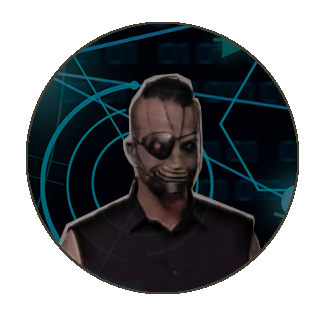
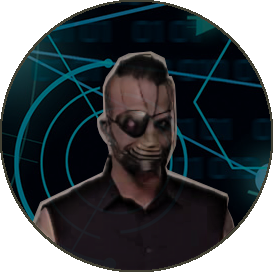
me image

diff --git a/static-pages/css/media.css b/static-pages/css/media.css
@@ -14,6 +14,14 @@
     font-size: 0.767em;
   }
 
+  .me {
+    margin: 0px 0px 5px 5px;
+    width: 50px;
+    height: 50px;
+    background: url(../images/misc/me-purim-rounded.png);
+    background-size: contain;
+  }
+
   .main {
     margin-top: 10px;
     margin-bottom: 10px;
@@ -138,6 +146,14 @@
 
   header h4 {
     font-size: 0.767em;
+  }
+
+  .me {
+    margin: 0px 0px 0px 10px;
+    width: 80px;
+    height: 80px;
+    background: url(../images/misc/me-purim-rounded.png);
+    background-size: contain;
   }
 
   .main {
@@ -266,6 +282,14 @@
     font-size: 1.07em;
   }
 
+  .me {
+    margin: 0px 0px 5px 10px;
+    width: 110px;
+    height: 110px;
+    background: url(../images/misc/me-purim-rounded.png);
+    background-size: contain;
+  }
+
   .main {
     margin-top: 20px;
     margin-bottom: 20px;
@@ -380,6 +404,14 @@
 
   header h4 {
     font-size: 1.07em;
+  }
+
+  .me {
+    margin: 0px 0px 0px 15px;
+    width: 110px;
+    height: 110px;
+    background: url(../images/misc/me-purim-rounded.png);
+    background-size: contain;
   }
 
   .main {

diff --git a/static-pages/css/main.css b/static-pages/css/main.css
@@ -21,6 +21,10 @@ header h4 {
   color: #928e72;
 }
 
+.me {
+  float: right;
+}
+
 .container {
   display: flex;
   flex-direction: row;

diff --git a/server/src/data/index.html b/server/src/data/index.html
@@ -18,6 +18,7 @@
   <div class="container">
     <div class="main main-index">
       <div class="preface">
+        <div class="me"></div>
         <p>שלום, אני יניב אור - ברוכים הבאים לבלוג שלי.</p>
         <p>כאן תמצאו פרויקטים, מדריכים, מאמרים וכתבות -  בתכנות, מדע, אומנות ובעצם כל מה שמעניין ומעסיק אותי.</p>
         <p>זהו יומן רעיונות ומחברת שירבוטים.</p>

diff --git a/static-pages/index.html b/static-pages/index.html
@@ -18,6 +18,7 @@
   <div class="container">
     <div class="main main-index">
       <div class="preface">
+        <div class="me"></div>
         <p>שלום, אני יניב אור - ברוכים הבאים לבלוג שלי.</p>
         <p>כאן תמצאו פרויקטים, מדריכים, מאמרים וכתבות -  בתכנות, מדע, אומנות ובעצם כל מה שמעניין ומעסיק אותי.</p>
         <p>זהו יומן רעיונות ומחברת שירבוטים.</p>